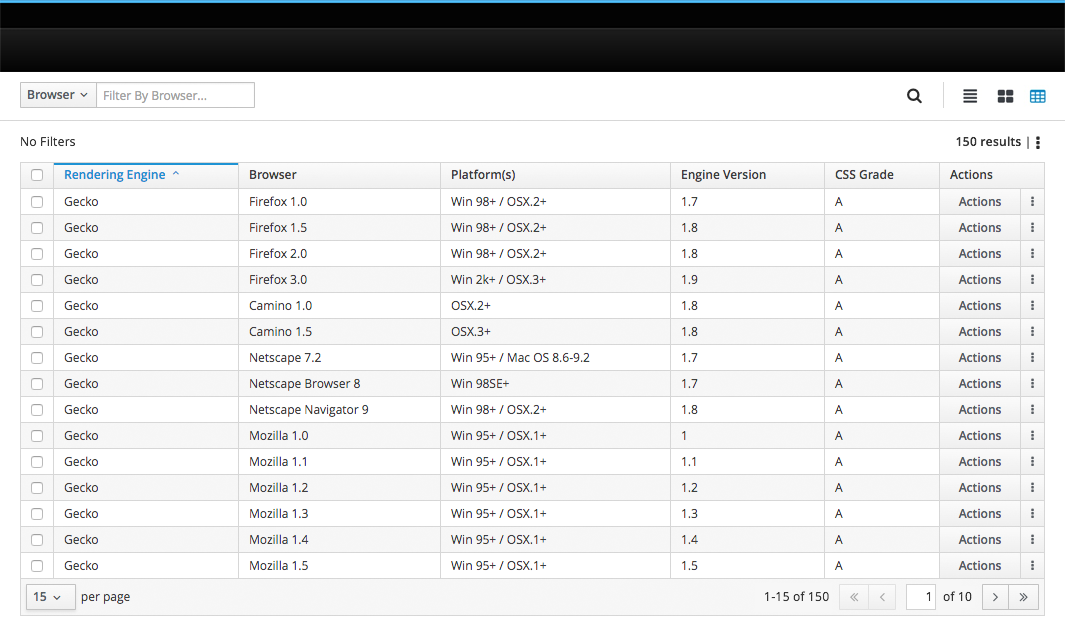
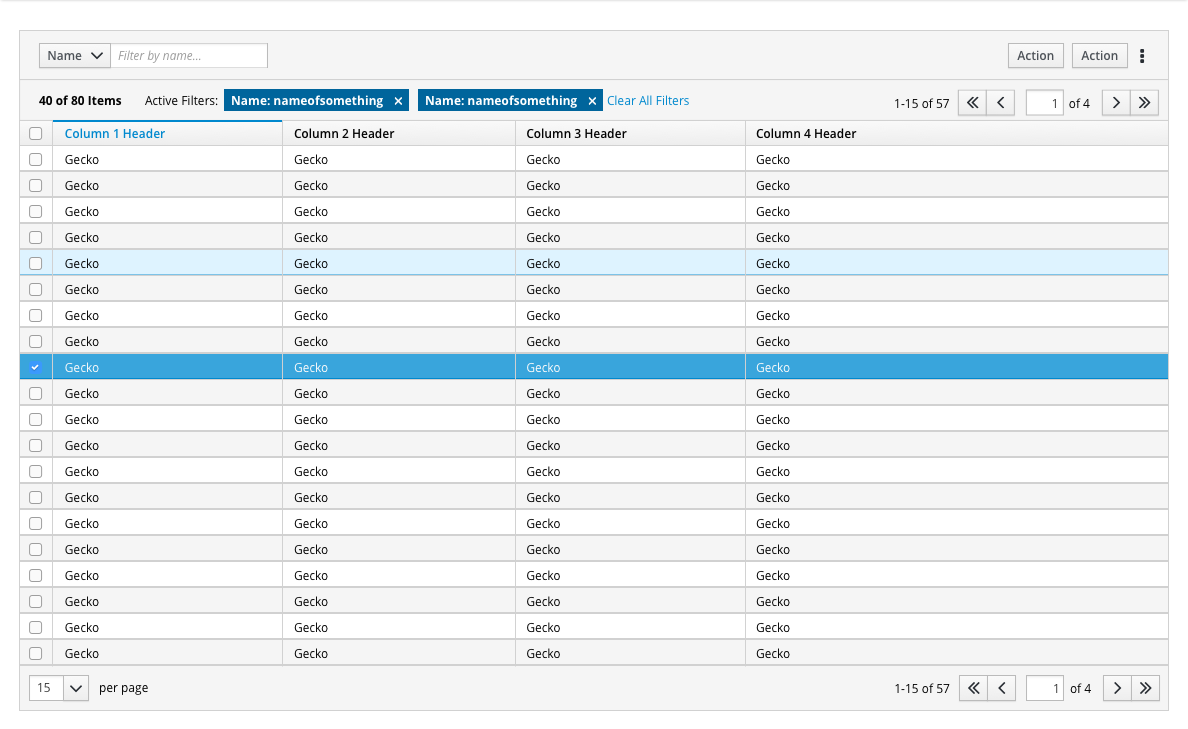
Updating design per issue #559

diff --git a/pattern-library/navigation/pagination/design/design.md b/pattern-library/navigation/pagination/design/design.md
@@ -1,5 +1,14 @@
 # Pagination
 
+Pagination should be located above or below the relevant content view whenever pagination is supported.
+
+![Pagination Callouts](img/pagination_callouts_2.png)
+
+1. **Upper Pagination Control:** A pagination control is included in the toolbar above the list.
+2. **Pagniation Footer:** The pagination footer contains Items per Page and Pagination controls and is appended to the bottom of the view and may be sticky (see [Pagination - Content Below](## Pagination - Content Below)).
+
+## Pagination Footer
+
 ![Pagination Callouts](img/pagination_callouts.png)
 
 1. **Items per Page:** This control displays the number of items on a page.
@@ -12,41 +21,9 @@
 6. **Navigate Pages:** These controls allow the user to navigate to the next or last page.
   * These controls are disabled when the user is on the last page.
 
-## Pagination - Selection Pattern
 
-### Default View
-![Pagination Select 1](img/pagination_selection_1.png)
 
-### Filters Applied
-![Pagination Select 2](img/pagination_selection_2.png)
 
-1. **Filters:** Filters are displayed on left side.
-2. **Item Count:** An updated item count is displayed on the right side.
-
-### Single Select
-![Pagination Select 3](img/pagination_selection_3.png)
-
-1. **Single Select:** Select single items by checking the box on the left of each item row.
-
-### Multi-Select
-![Pagination Select 4](img/pagination_selection_4.png)
-
-1. **Multi-Select:** Select all items within a single page by checking the box in the column header.
-
-### Select All
-![Pagination Select 5](img/pagination_selection_5.png)
-
-1. **Select All:** Select all items within the table by clicking Select All option under the kebab menu.
-
-### Clear Selected
-![Pagination Select 6](img/pagination_selection_6.png)
-
-1. **Clear Selected:** Clear any selected items by clicking Clear Selected option under the kebab menu.
-
-### Selection While Paging
-![Pagination Select 7](img/pagination_selection_7.png)
-
-1. **Selection While Paging:** Items remain selected even as a user pages.
 
 ## Pagination - Content Below
 ![Pagination Content Below](img/pagination_content_below.png)
@@ -59,3 +36,6 @@
 ![Pagination Select 7](img/pagination_no_data.png)
 
 * **No Data:** Pagination is not displayed when there is no data to page.
+
+## Selection While Paging
+ Items remain selected even as a user pages.

diff --git a/pattern-library/navigation/pagination/design/overview.md b/pattern-library/navigation/pagination/design/overview.md
@@ -6,6 +6,7 @@ This pattern defines how pagination behaves within content views. When present, 
   * Pagination is not necessary when there is a small amount of content.
   * Pagination is not necessary when an application uses "lazy load" to load content as a user scrolls.
   * Pagination is not displayed when there is no data to display.
+* When included, the pagination control should be be present both above (in the bottom-right of the toolbar) and below the relevant content view.
 * Pagination can be "sticky" and remain fixed to the bottom of a user's browser.
   * A sticky footer is not recommended for views with content *below* pagination.
 
